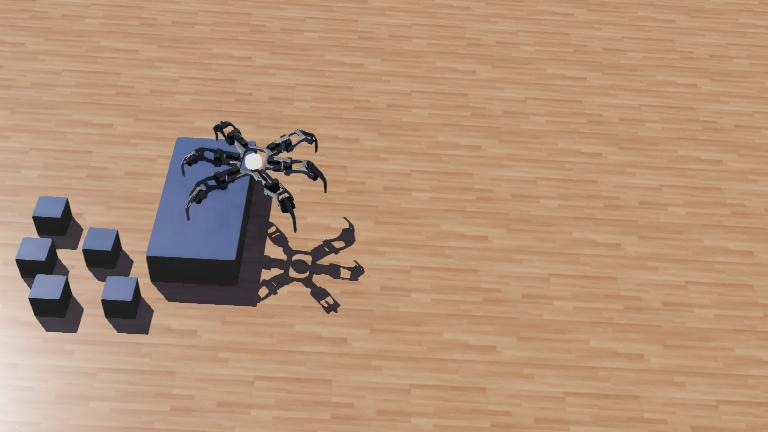
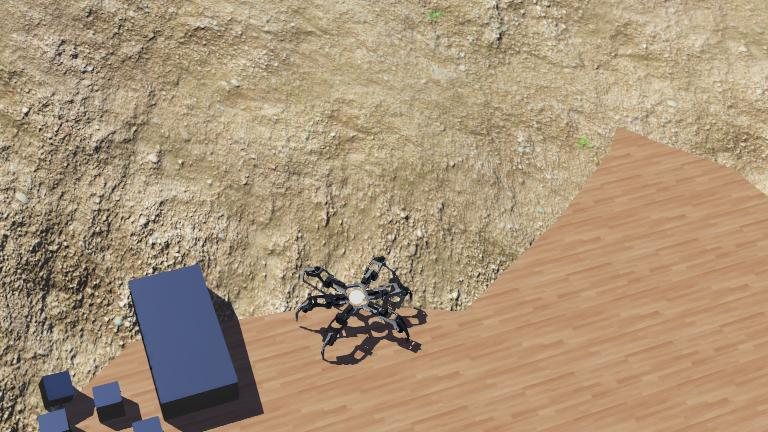
更改全向移动算法，使计算无关z轴，使得在行走时可启用自平衡

diff --git a/controllers/new_hexapod/Hexapod.cpp b/controllers/new_hexapod/Hexapod.cpp
@@ -160,8 +160,10 @@ void Hexapod::prepareNextCycle(GaitStatus moveStatus)
 {
     if (isGaitCycleStart() || gaitStatus == Stop)
     {
+        balance();
         if (velocity == Vector3() && omega == 0.0)
         {
+            
             reInit();
             startMove();
             gaitStatus = Stop;
@@ -386,8 +388,8 @@ void Hexapod::moveTripod()
 
 Vector3 Hexapod::getSwagNextBodyTarget(Vector3 r0,Vector3 currentStandBodyTarget)
 {
-    auto z = -currentHeight;
-    currentStandBodyTarget.z = 0.0;
+    // auto z = -currentHeight;
+    // currentStandBodyTarget.z = 0.0;
     Vector3 pc = r0 + currentStandBodyTarget;
     float theta = stepTheta * (float)frame / (float)totalFrame - stepTheta / 2.0f;
     auto pt = Vector3(
@@ -396,14 +398,14 @@ Vector3 Hexapod::getSwagNextBodyTarget(Vector3 r0,Vector3 currentStandBodyTarget
         pc.z
     );
     auto t = pt - r0;
-    t.z = z + 0.06f * static_cast<float>(sin(((float)frame / (float)totalFrame) * M_PI));
+    t.z += 0.06f * static_cast<float>(sin(((float)frame / (float)totalFrame) * M_PI));
     return t;
 }
 
 Vector3 Hexapod::getStandNextBodyTarget(Vector3 r0,Vector3 currentStandBodyTarget,float baseRatio,float ratio)
 {
-    auto z = -currentHeight;
-    currentStandBodyTarget.z = 0.0;
+    // auto z = -currentHeight;
+    // currentStandBodyTarget.z = 0.0;
     Vector3 pc = r0 + currentStandBodyTarget;
     float theta =stepTheta * ratio + stepTheta * (baseRatio) * (float)frame / (float)totalFrame  - stepTheta / 2.0f ;
     auto pt = Vector3(
@@ -412,7 +414,7 @@ Vector3 Hexapod::getStandNextBodyTarget(Vector3 r0,Vector3 currentStandBodyTarge
         pc.z
     );
     auto t = pt - r0;
-    t.z = z;
+    // t.z = z;
     return t;
 }
 

diff --git a/controllers/new_hexapod/new_hexapod.cpp b/controllers/new_hexapod/new_hexapod.cpp
@@ -26,7 +26,7 @@ int main(int argc, char** argv)
     Keyboard* keyboard = robot->getKeyboard();
     keyboard->enable(timeStep);
     
-    robot->omega = -0.1f;
+    robot->omega = -0.0f;
     robot->velocity = Vector3(0.0f, 0.05f, 0.0f);
 
     robot->setHeight(0.100459f);
@@ -79,9 +79,9 @@ int main(int argc, char** argv)
         // robot->moveRipple();
         // robot->moveWave();
 
-        robot->balance();
-        robot->reInit();
-        robot->startMove();
+        // robot->balance();
+        // robot->reInit();
+        // robot->startMove();
         
         // Vector3 vector3 = Vector3();
         // bool arr[256] = {false};
@@ -120,7 +120,7 @@ int main(int argc, char** argv)
         //     omega -= 0.1f;
         // }
         // robot->omega = omega;
-        // robot->moveTripod();
+        robot->moveTripod();
         // robot->checkIsOnGround();
         // robot->toGround();
         // robot->reInit();
